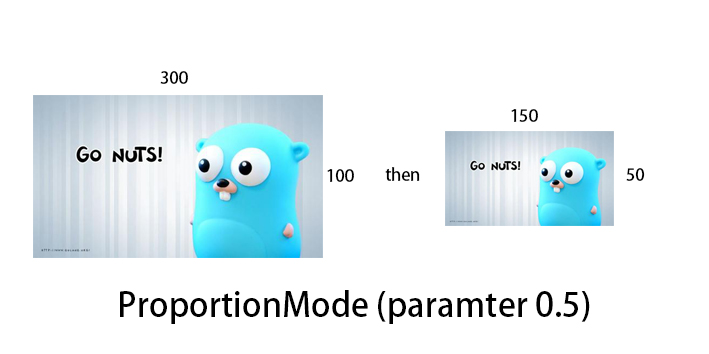
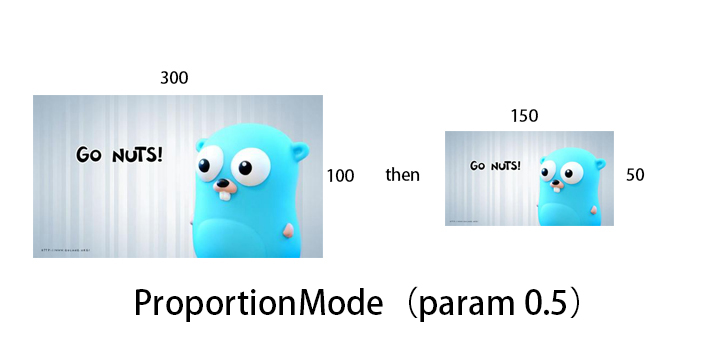
more document and edit reset

Changed region(s): [[0.1551, 0.8079, 0.8378, 0.9322]]

diff --git a/image.go b/image.go
@@ -235,5 +235,6 @@ func (m *Image) Draw(out io.Writer) error {
 
 func (m *Image) ReSet() *Image {
     m.opImage = nil
+    m.err = nil
     return m
 }

diff --git a/README.md b/README.md
@@ -7,24 +7,24 @@
 go get github/chi-chu/imagescaling
 ```
 ### 2.Mode Explain
-* **Clip()**  &emsp;Api example:  
-	&emsp;&emsp;CenterMode:			Mode{Mode:CenterMode}  
+* **Clip(Mode)**  &emsp;Api example:  
+	&emsp;&emsp;**CenterMode**:			&emsp;&emsp;Mode{Mode:CenterMode}  
 	&emsp;&emsp;![Image text](img/CenterMode.jpg)  
 	
-	&emsp;&emsp;CustomMode:    		Mode{Mode:CustomMode, Coordinate: [4]uint{&ensp;X0,&ensp;Y0,&ensp;X1,&ensp;Y1&ensp;}}  
+	&emsp;&emsp;**CustomMode**:    		&emsp;&emsp;Mode{Mode:CustomMode, Coordinate: [4]uint{&ensp;X0,&ensp;Y0,&ensp;X1,&ensp;Y1&ensp;}}  
 	&emsp;&emsp;![Image text](img/CustomMode.jpg)  
 
-* **Scale()** &emsp; Api example:  
-	&emsp;&emsp;ProportionMode:		Mode{Mode:ProportionMode, Proportion: 0.5}	&emsp;&emsp;&emsp;&emsp;**(half size)**  
+* **Scale(Mode)** &emsp; Api example:  
+	&emsp;&emsp;**ProportionMode**:		&emsp;&emsp;Mode{Mode:ProportionMode, Proportion: 0.5}	&emsp;&emsp;&emsp;&emsp;**(half size)**  
 	&emsp;&emsp;![Image text](img/ProportionMode.jpg)  
 	
-	&emsp;&emsp;FixLengthMode:		Mode{Mode:FixLengthMode, FixHeight:80} 	&emsp;&emsp;&emsp;&emsp;&emsp;**(auto fix width)**  
-	&emsp;&emsp;&emsp;&emsp;&emsp;&emsp;&emsp;&emsp;                 or Mode{Mode:FixLengthMode, FixWidth:100}		&ensp;&emsp;&emsp;&emsp;&emsp;&emsp;**(auto fix height)**  
-	&emsp;&emsp;&emsp;&emsp;&emsp;&emsp;&emsp;&emsp;  				 or Mode{Mode:FixLengthMode, FixHeight:123, FixWidth:456}  &emsp;&emsp;**(stretch 拉伸)**  
+	&emsp;&emsp;**FixLengthMode**:		&emsp;&emsp;Mode{Mode:FixLengthMode, FixHeight:80} 	&emsp;&emsp;&emsp;&emsp;&emsp;**(auto fix width)**  
+	&emsp;&emsp;&emsp;&emsp;&emsp;&emsp;&emsp;&emsp;&emsp;&emsp;                 or Mode{Mode:FixLengthMode, FixWidth:100}		&ensp;&emsp;&emsp;&emsp;&emsp;&emsp;**(auto fix height)**  
+	&emsp;&emsp;&emsp;&emsp;&emsp;&emsp;&emsp;&emsp;&emsp;&emsp;  				 or Mode{Mode:FixLengthMode, FixHeight:123, FixWidth:456}  &emsp;&emsp;**(stretch 拉伸)**  
 	&emsp;&emsp;![Image text](img/FixLengthMode.jpg)  
 
 * **ReSet()**  &emsp; Api Desc:  
-	&emsp;&emsp;Recover the image to origin data
+	&emsp;&emsp;Recover the image to original data
 * **GetExt()** &emsp; Api Desc:  
 	&emsp;&emsp;Get the file type **jpg/png/bmp/gif**
 ### 3.Usage
